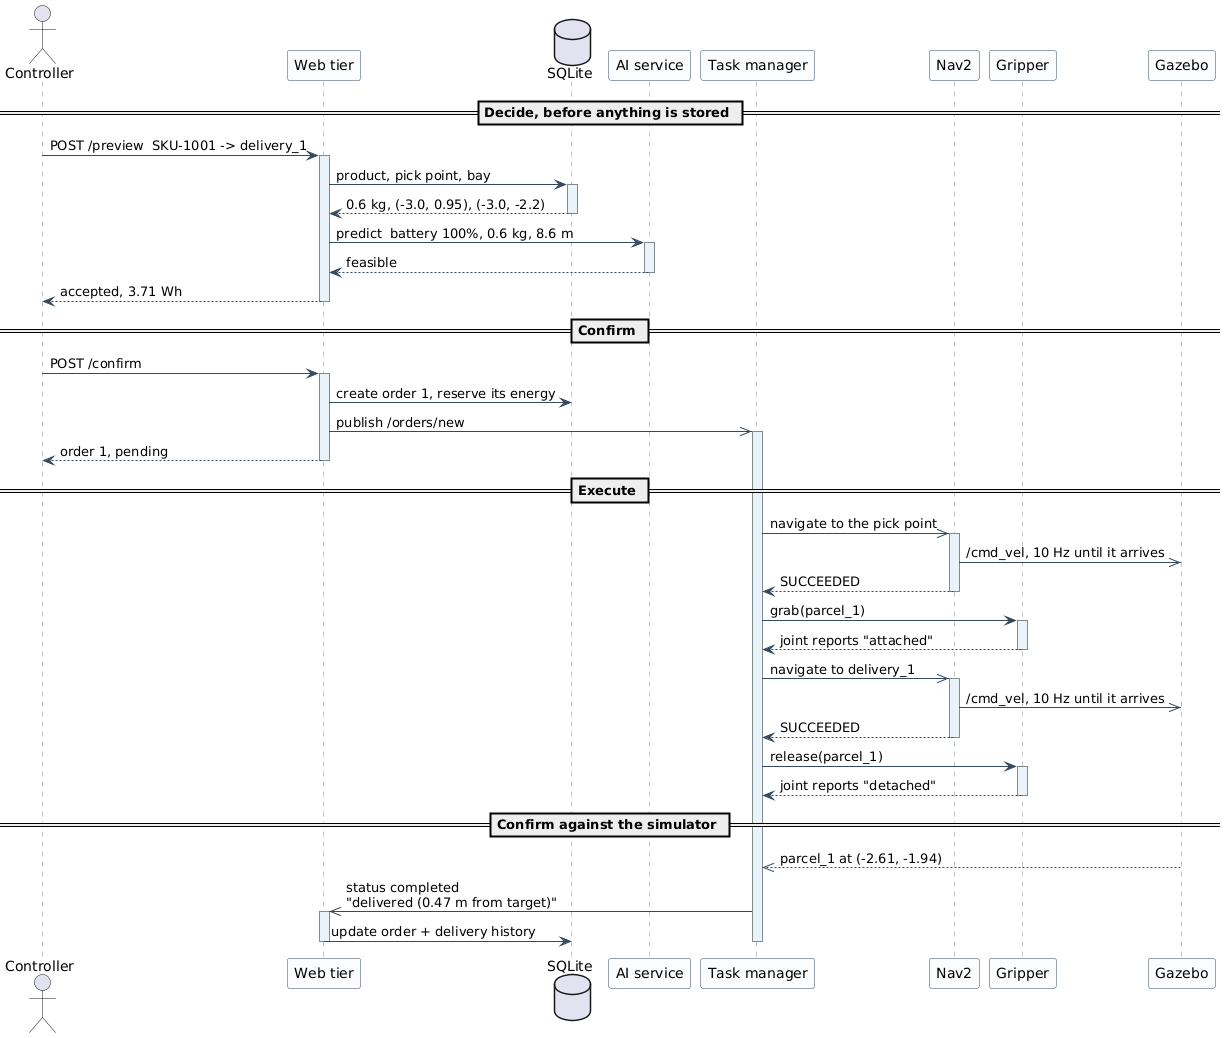
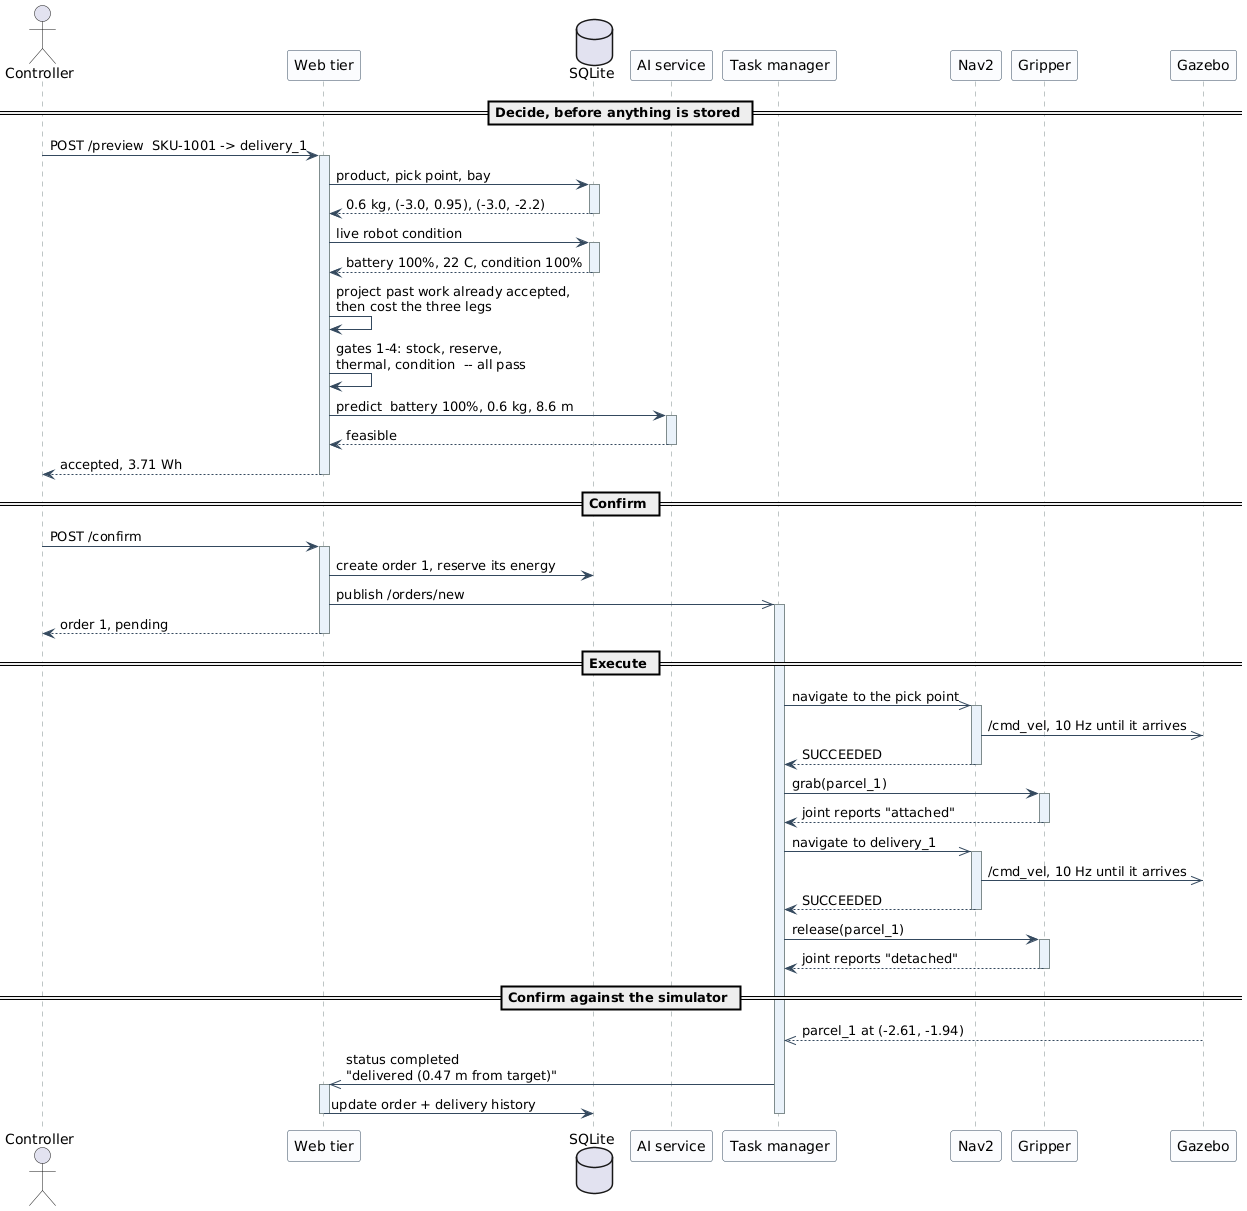
Scenarios 1 and 2: show the admission gates in the order the code runs them
Both diagrams misrepresented the decision, in opposite directions, and between
them they contradicted the claim the report makes for C2.

Scenario 1 jumped from the product lookup straight to the classifier and then to
"accepted". It never showed the robot's condition being read, never showed the
projection past work already accepted, and never showed a gate. Drawn that way
it says the classifier decides, which is the opposite of the argument in the
complex-functionality chapter.

Scenario 2 had the reverse error: the classifier was consulted first and the
policy gates afterwards. It also refused for a reason that cannot reach the
classifier at all. The caption said the order was refused for want of battery to
return, which is gate 2 - and gate 2 returns immediately, so gates 3 to 5 never
run and the model is never asked.

Both now follow the code: read the product, read the live condition, project it
forward, then gates 1 to 4, then the classifier as gate 5. Scenario 2 refuses at
gate 2 and its AI service and task manager lifelines stay visibly empty, which
states the C2 argument in the picture rather than in the prose - the model can
refuse an order the physics allowed, but is never in a position to approve one
the physics rejected.

diff --git a/report/RoboFetch_Software_Engineering_Report.tex b/report/RoboFetch_Software_Engineering_Report.tex
@@ -1336,17 +1336,23 @@ they cover the three outcomes an order can have: it is delivered, it is never st
 stopped.
 
 \uploadedfigure{Figures/03-sequence-order-success.png}{0.98\textwidth}
-{Scenario 1: a controller places an order and it is delivered. The task manager sends a
-destination, not a velocity: the navigation stack decides how to get there and drives the robot
+{Scenario 1: a controller places an order and it is delivered. The admission steps appear in the
+order the code runs them: the robot's condition is read and projected forward past work already
+accepted before any gate, and the classifier is gate 5, reached only because the four physical
+checks passed. The task manager sends a destination, not a velocity: the navigation stack decides how to get there and drives the robot
 itself, which is why it is the navigation stack and not the task manager that writes to the
 velocity topic. The decision is taken before anything is stored, and the outcome is decided by reading the parcel's real position rather than by
 the fact that every command returned success. The figures are those of order 1 of the recorded
 acceptance run.}{fig:seqsuccess}
 
 \uploadedfigure{Figures/11-sequence-order-refused.png}{0.92\textwidth}
-{Scenario 2: the same request is refused because the robot has not the battery to finish it and
-return. The classifier is consulted, but the policy gates decide; nothing is written to the orders
-table and the robot is never sent, so a refusal costs one preview.}{fig:seqrefused}
+{Scenario 2: the same request is refused because the robot could not return to its station
+afterwards. The gate order is the subject of this diagram: the reserve check is gate 2, it returns
+immediately, and gates 3 to 5 never run -- so the \emph{classifier is not consulted at all}, and
+its lifeline stays empty. That is the strongest form of the argument in Section~\ref{sec:c2}: the
+model can refuse an order the physics allowed, but it is never in a position to approve one the
+physics rejected. Nothing is written and nothing is published, so a refusal costs one preview and
+there is nothing to undo.}{fig:seqrefused}
 
 \uploadedfigure{Figures/12-sequence-emergency-stop.png}{0.95\textwidth}
 {Scenario 3: the operator halts a running order. Inside the task manager the stop is handled on the
@@ -1630,6 +1636,7 @@ docked.}{fig:temperature}
 above the warning temperature.}{fig:wear}
 
 \section{C2 - Order Admission and Cost Preview}
+\label{sec:c2}
 
 \subsection{The Procedure}
 The admission workflow is the decision procedure of the system. Figure~\ref{fig:activity} gives it
